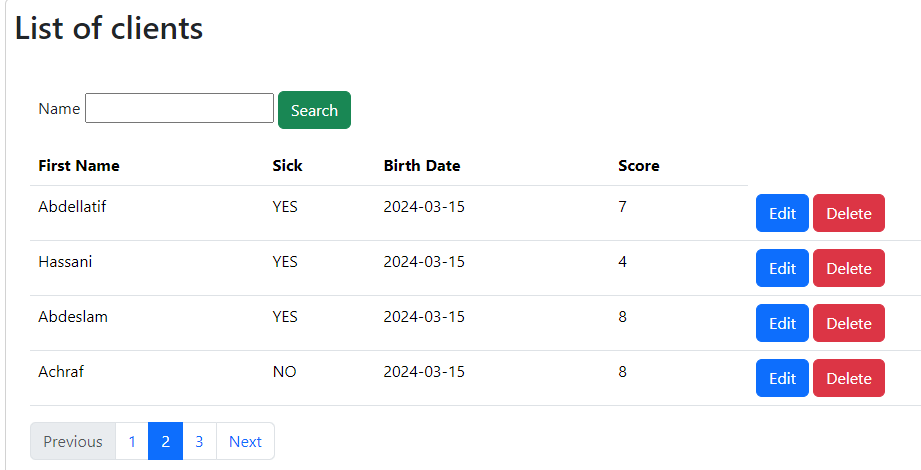
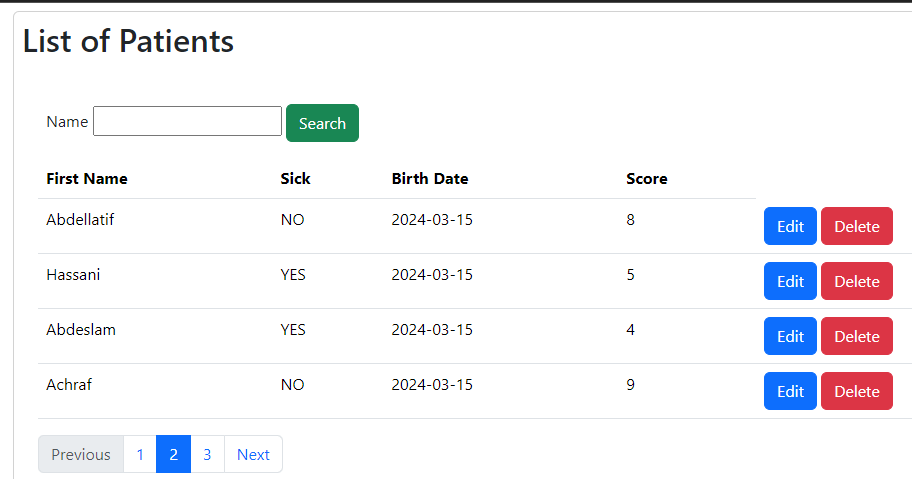
TP3: Adding feature - update patient

diff --git a/Spring_MVC_Thymleaf/src/main/resources/templates/editPatient.html b/Spring_MVC_Thymleaf/src/main/resources/templates/editPatient.html
@@ -1,0 +1,43 @@
+<!DOCTYPE html>
+<html lang="en" xmlns:th="http://www.thymeleaf.org">
+<head>
+    <meta charset="UTF-8">
+    <title>Title</title>
+    <link rel="stylesheet" href="/webjars/bootstrap/5.3.3/css/bootstrap.min.css">
+</head>
+<body>
+    <div class="container mt-2">
+        <div class="card p-2 justify-content-center">
+            <div class="card-title">
+                <h2> Updating a patient</h2>
+            </div>
+            <div class="card-body">
+                <div class="form-group m-2 mb-3">
+                    <form th:action="@{/patients/edit}" method="post">
+                        <input type="hidden" class="form-control" name="id"
+                        th:value="${patient.id}">
+                        <label for="name">Name</label>
+                        <div class="col-sm-6 mt-2">
+                            <input type="text" class="form-control" id="name" name="name"
+                            th:value="${patient.name}">
+                        </div>
+                        <label for="score">Score</label>
+                        <div class="col-sm-6 mt-2">
+                            <input type="number" class="form-control" id="score" name="score"
+                            th:value="${patient.score}">
+                        </div>
+                        <label for="birthDay">Birth Day</label>
+                        <div class="col-sm-6 mt-2">
+                            <input type="date" class="form-control" id="birthDay" name="birthDay"
+                            th:value="${patient.birthDay}">
+                        </div>
+                        <div class="col-sm-6 mt-2">
+                            <input type="submit" class="btn btn-success" value="Edit">
+                        </div>
+                    </form>
+                </div>
+            </div>
+        </div>
+    </div>
+</body>
+</html>

diff --git a/Spring_MVC_Thymleaf/src/main/resources/templates/patients.html b/Spring_MVC_Thymleaf/src/main/resources/templates/patients.html
@@ -1,5 +1,5 @@
 <!DOCTYPE html>
-<html lang="en" xmlns="http://www.w3.org/1999/xhtml" xmlns:th="http://www.thymeleaf.org">
+<html lang="en" xmlns:th="http://www.thymeleaf.org">
 <head>
     <meta charset="UTF-8">
     <title>Patient</title>
@@ -9,11 +9,11 @@
     <div class="container mt-2">
         <div class="card p-2 justify-content-center">
             <div class="card-title">
-                <h2>List of clients</h2>
+                <h2>List of Patients</h2>
             </div>
             <div class="card-body">
                 <div class="form-group m-2 mb-3">
-                    <form action="/patients/search" method="get">
+                    <form th:action="@{/patients}" method="get">
                         <label for="name">Name</label>
                         <input type="text" class="mt-2" id="name" name="keyword">
                         <input type="submit" class="btn btn-success" value="Search">
@@ -32,7 +32,7 @@
                         <td th:text="${p.birthDay}"></td>
                         <td th:text="${p.score}"></td>
                         <td>
-                            <a th:href="@{/patients/edit(id=${p.id})}" class="btn btn-primary">Edit</a>
+                            <a th:href="@{/patients/editForm(id=${p.id})}" class="btn btn-primary">Edit</a>
                             <a th:href="@{/patients/delete(id=${p.id})}" class="btn btn-danger">Delete</a>
                         </td>
                     </tr>

diff --git a/Spring_MVC_Thymleaf/src/main/java/ma/enset/orm_hibernate_spring_data/web/PatientController.java b/Spring_MVC_Thymleaf/src/main/java/ma/enset/orm_hibernate_spring_data/web/PatientController.java
@@ -2,12 +2,15 @@ package ma.enset.orm_hibernate_spring_data.web;
 
 import ma.enset.orm_hibernate_spring_data.dto.PatientDTO;
 import ma.enset.orm_hibernate_spring_data.service.PatientService;
+import org.springframework.format.annotation.DateTimeFormat;
 import org.springframework.stereotype.Controller;
 import org.springframework.ui.Model;
 import org.springframework.web.bind.annotation.GetMapping;
+import org.springframework.web.bind.annotation.PostMapping;
 import org.springframework.web.bind.annotation.RequestMapping;
 import org.springframework.web.bind.annotation.RequestParam;
 
+import java.util.Date;
 import java.util.List;
 
 @Controller
@@ -22,13 +25,28 @@ public class PatientController {
     public String index(Model model, @RequestParam(name = "keyword", defaultValue = "") String keyword){
         List<PatientDTO> patients = patientService.getPatients(keyword);
         model.addAttribute("patients", patients);
-
         return "patients";
     }
-
+    //Deleting a patient
     @GetMapping("/delete")
-    public String delete(Long id){
+    public String delete(@RequestParam(name = "id") Long id){
         patientService.deletePatient(id);
+        return "redirect:/patients";
+    }
+    //Showing the edit form
+    @GetMapping("/editForm")
+    public String showEditForm(Model model, @RequestParam(name = "id") Long id){
+        PatientDTO patient = patientService.getPatient(id);
+        model.addAttribute("patient", patient);
+        return "editPatient";
+    }
+    @PostMapping("/edit")
+    public String edit(@RequestParam(name = "id") Long id,
+                       @RequestParam(name = "name") String name,
+                       @RequestParam(name = "score") int score,
+                       @DateTimeFormat(iso = DateTimeFormat.ISO.DATE) @RequestParam(name = "birthDay") Date birthDay){
+        PatientDTO patientDTO = patientService.editPatient(id, name, score, birthDay);
+        System.out.println("test");
         return "redirect:/patients";
     }
 }

diff --git a/Spring_MVC_Thymleaf/src/main/java/ma/enset/orm_hibernate_spring_data/service/PatientService.java b/Spring_MVC_Thymleaf/src/main/java/ma/enset/orm_hibernate_spring_data/service/PatientService.java
@@ -2,10 +2,12 @@ package ma.enset.orm_hibernate_spring_data.service;
 
 import jakarta.transaction.Transactional;
 import ma.enset.orm_hibernate_spring_data.dto.PatientDTO;
+import ma.enset.orm_hibernate_spring_data.entities.Patient;
 import ma.enset.orm_hibernate_spring_data.mappers.PatientMapper;
 import ma.enset.orm_hibernate_spring_data.repository.PatientRepository;
 import org.springframework.stereotype.Service;
 
+import java.util.Date;
 import java.util.List;
 
 @Service
@@ -29,5 +31,17 @@ public class PatientService implements IPatientService{
 
     public void deletePatient(Long id) {
         patientRepository.deleteById(id);
+    }
+
+    public PatientDTO editPatient(Long id, String name, int score, Date birthDay) {
+        Patient patient = patientRepository.findById(id).get();
+        patient.setName(name);
+        patient.setScore(score);
+        patient.setBirthDay(birthDay);
+        return patientMapper.toPatientDTO(patientRepository.save(patient));
+    }
+
+    public PatientDTO getPatient(Long id) {
+        return patientMapper.toPatientDTO(patientRepository.findById(id).get());
     }
 }

diff --git a/Spring_MVC_Thymleaf/src/main/java/ma/enset/orm_hibernate_spring_data/repository/PatientRepository.java b/Spring_MVC_Thymleaf/src/main/java/ma/enset/orm_hibernate_spring_data/repository/PatientRepository.java
@@ -8,4 +8,5 @@ import java.util.List;
 @Repository
 public interface PatientRepository extends IRepository<Patient, Long> {
     List<Patient> findPatientByNameContainsIgnoreCase(String name);
+
 }
